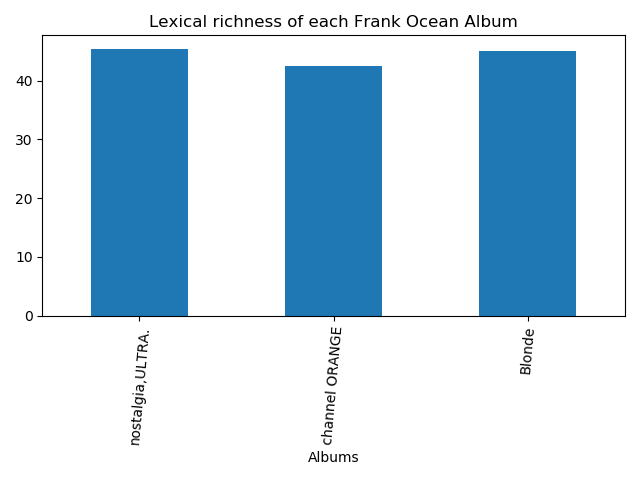
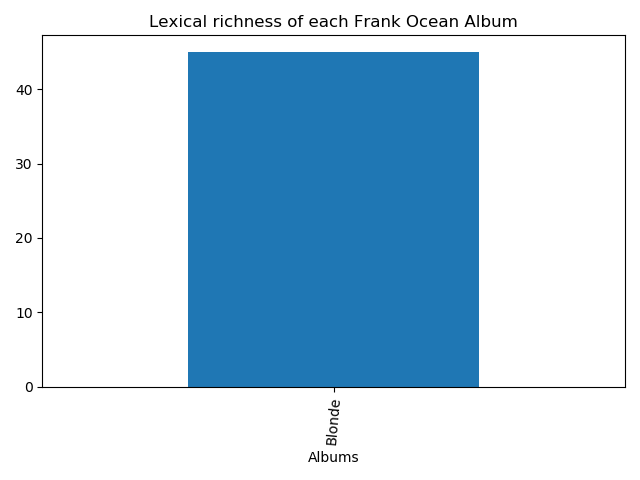
Finish preliminary draft of word frequency per track. TODO: Find some way to order tracks

diff --git a/analyze.py b/analyze.py
@@ -204,65 +204,72 @@ def get_word_frequency(songs_df, artist_name, album, word):
 
     graph_df = pd.DataFrame(columns=('Tracks', 'Word Frequency'))
     word = word.upper() #for consistency
-    print(word)
+    #print(word)
+    #print(list(songs_df.columns))
     
     #copied below
     i=0
     for name, alb in songs_group:
-        print("printing alb")
-        print(name)
-        print(name == album)
+        #print("printing alb")
+        #print(name)
+        #print(name == album)
         #print(alb)
-        if (name != album):
+        #We run this separately for all albums, so if it's not the album we want, skip.
+        if (name != album): 
             continue
-        # Create a list of words for every word that is in an album
+        
+        # total is the total number of times the word shows up throughout the entire ALBUM
         total = 0
+        #print("NAME:")
+        #print(name)
+        #print("ALB:")
+        #print(alb)
+        #print(list(alb.columns))
+        #print(len(alb))
+        #print(alb['Lyrics'])
 
-        for lyric in alb['Lyrics'].iteritems():
-            if isinstance(lyric[1], str):
-                words = lyric[1].replace('\n', ' ')
+        for i in range(len(alb)):
+            total = 0
+            row = alb.iloc[i]
+            lyric = row['Lyrics']
+            title = row['Title']
+            #print(title)
+            #lyric = alb['Lyrics']
+            if isinstance(lyric, str):
+                words = lyric.replace('\n', ' ') #lyric[1] is a long string of all the lyrics
+                words = words.replace("-", " ") #separate possible stutters, i.e. "s-solo"
+                words = words.replace(',', '') #Remove commas (which could decrease word matching)
+                
                 words = words.split(' ')
-                #print(len(words))
-                if (words[0] == "He"):
-                    print(words)
+
                 for i in range(len(words)):
                     w = words[i]
                     w = w.upper()
                     if (w == word):
-                        #print(len(words))
-                        #print(words[29])
-                        #print(words[363].upper() == word)
-                        #print(i)
                         total+=1
-                print(total)
-
-                filtered_words = [1 for w in words if w.upper() == word]  # remove the stopwords
-
-                #total+= sum(filtered_words)
-        print("Out here")
-        # Find how many words and unique words are in the album
-        print(total)
-        a = len(set(every_word_in_album))
-        b = len(every_word_in_album)
-
+                graph_df.loc[i] = (title, total)
         # Calculate the lexical richness of the album, which is the amount of unique words relative to
         # the total amount of words in the album
-        graph_df.loc[i] = (name, (a / float(b)) * 100)
+        graph_df.loc[i] = (title, total)
         i += 1
+
+    #print(graph_df)
 
     # Plot the lexical richness by album on a bar chart
     graph_df = graph_df.set_index('Tracks')
-    graph_df = graph_df.reindex(albums)
+
+    #TODO: reorder tracks based on their order in the album.
+    #graph_df = graph_df.reindex(albums) #somehow find a list of strings that represent track order
     graph_df.plot(kind='bar',
                   use_index = True,
-                  y='Lexical Richness',
-                  title='Lexical richness of each {} Album'.format(artist_name),
+                  y='Word Frequency',
+                  title='Word frequency of {} in {}'.format(word.lower(), album),
                   legend=None)
 
     plt.xlabel("Albums")
     plt.xticks(rotation=85)
     plt.tight_layout()
-    plt.savefig('{} Lexical Richness.png'.format(artist_name))
+    plt.savefig('{}-{}-{}.png'.format(artist_name, album, word.lower()))
 
     # Show the bar chart
     plt.show()

diff --git a/main.py b/main.py
@@ -24,8 +24,10 @@ def main(artist_name, album_list):
         songs_df.to_csv('{}.csv'.format(artist_name))
 
     print("Finished CSV stuff")
-    get_lexical_richness(songs_df, artist_name, album_list)
+    #get_lexical_richness(songs_df, artist_name, album_list)
     print("finished lexical richness")
+
+    return songs_df #delete later
     get_sentiment_analysis(songs_df, artist_name, album_list)
     print("finished sentiment analysis")
 

diff --git a/JohnMayer/JohnMayer.py b/JohnMayer/JohnMayer.py
@@ -1,4 +1,6 @@
-from main import main
+import sys
+sys.path.insert(0, '../')
+from main import *
 
 MAYER_ALBUMS = ['Room for Squares',
               'Heavier Things',
@@ -10,5 +12,7 @@ MAYER_ALBUMS = ['Room for Squares',
 
 NAME = 'John Mayer'
 
-main(NAME, MAYER_ALBUMS)
+songs_df = main(NAME, MAYER_ALBUMS)
 
+#Specific Methods for this particular artist
+word_frequency(songs_df, NAME, MAYER_ALBUMS, ['love'])

diff --git a/FrankOcean/FrankOcean.py b/FrankOcean/FrankOcean.py
@@ -6,9 +6,12 @@ OCEAN_ALBUMS = ['nostalgia,ULTRA.',
               'channel ORANGE',
               'Blonde']
 
+#OCEAN_ALBUMS = ['Blonde']
+
 NAME = 'Frank Ocean'
 
 songs_df = main(NAME, OCEAN_ALBUMS)
 
-word_frequency(songs_df, NAME, ['Blonde'], ['solo'])
+#Specific Methods for this particular artist
+word_frequency(songs_df, NAME, OCEAN_ALBUMS, ['love'])
 
